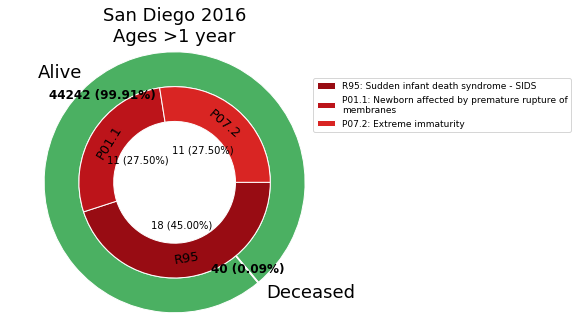
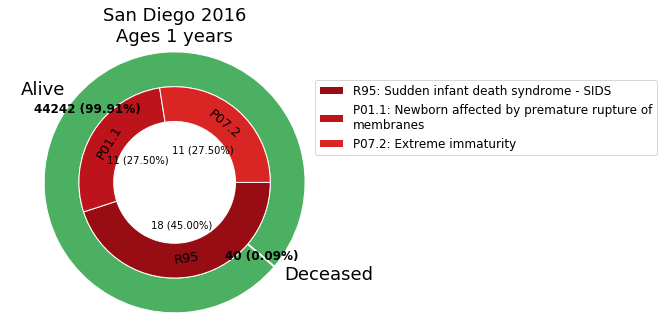
Renamed it again Increased font size for legends

Changed region(s): [[0.0311, 0.0, 0.9965, 0.9969], [0.9654, 0.4673, 0.9965, 0.4984]]

diff --git a/_posts/2019-10-24-Lambda-Build-1.md b/_posts/2019-10-24-Lambda-Build-1.md
@@ -2,15 +2,13 @@
 layout: post
 title: Build 1 - Death and Statistics
 subtitle: Lambda School - Data Science 9
-gh-repo: JoshuaPMallory/Unit_1_Build
+gh-repo: JoshuaPMallory/Death_and_Statistics
 gh-badge: [fork]
 image: /img/there-there-skeleton.png
 tags: [Data Science, Lambda School]
 ---
 
-This is my first project for Lambda School's monthly build week.
-
-I think the media presents a hostile view of life in the US; that shootings are happening more frequently than ever, that politicians and corporations are manipulating us, and that an excess diet of [eggs](https://www.pcrm.org/good-nutrition/nutrition-information/health-concerns-with-eggs 'Physicians Committee: Health Concerns with Eggs') is going to give us cancer. Or, wait... [I guess they're good for you now](https://health.clevelandclinic.org/i-have-cancer-what-should-i-eat-2/ 'Cleveland Clinic: I Have Cancer — What Should I Eat?'). It sounds like [other countries](https://www.washingtonpost.com/world/2019/06/04/china-warns-against-traveling-us-citing-shootings-robberies-theft/ 'Washington Post: China warns against traveling to the U.S., citing \‘shootings, robberies and theft\’') are taking note as well.
+From my corner of the world in California I think the media presents a hostile view of life; that shootings are happening more frequently than ever, that we're being manipulated by politicians and corporations, and that an excess diet of [eggs](https://www.pcrm.org/good-nutrition/nutrition-information/health-concerns-with-eggs 'Physicians Committee: Health Concerns with Eggs') is going to give us cancer. Or, wait... [I guess they're good for you now](https://health.clevelandclinic.org/i-have-cancer-what-should-i-eat-2/ 'Cleveland Clinic: I Have Cancer — What Should I Eat?'). It sounds like [other countries](https://www.washingtonpost.com/world/2019/06/04/china-warns-against-traveling-us-citing-shootings-robberies-theft/ 'Washington Post: China warns against traveling to the U.S., citing \‘shootings, robberies and theft\’') are taking note as well.
 
 I don't think death is nearly as common or likely as they believe so I'm going to be look at deaths in my corner of the world to give a general idea of the state of things in the past 17 years. By using data gathered from the CDC on California deaths I intend to give a clear view on death, it's most commonly talked about causes, and it's general probability against the surviving population. From what I've read in the past I believe the most likely causes of death are heart related illness and motor-vehicle collisions, and I'll compare that with what I believe most people would worry about; homicide and terrorism. (Well, I would do terrorism, but there's actually no listed deaths for terrorism in California, so that makes a great start!)
 
@@ -37,7 +35,7 @@ While not a surprise, this does show how a population influences the appearance 
 
 Overview of Infants >1 y/o in San Diego | Of those, the top 5 causes of Death in 2016
 :-------------------------:|:-------------------------:
- ![Graph_SD_2016_1](/img/Graph_SD_2016_1.png)|![Donut_SD_2016_1](/img/Donut_SD_2016_1.png)
+ ![Graph_SD_2016_1](/img/Graph_SD_1.png)|![Donut_SD_2016_1](/img/Donut_SD_2016_1.png)
 
 So, I'd say we have a good sign here. In the most recent year for the dataset we aren't even up to 5 causes of death! And of those, there's only 40 that died, all of which were medical issues with two of them happening prior to birth. If we look at the graph we can also see that it's not really changing much over time. I mean sure, it looks like it's bouncing around but the sums are pretty low compared to what we saw earlier, and they're not increasing at all! Seventeen years and the average is relatively stable. I'd take that as a sign that the majority of these deaths aren't being influenced by anything in particular.
 
@@ -46,7 +44,7 @@ I know dead babies isn't exactly a heartwarming story to talk about but just goi
 
 Overview of people 85+ y/o in San Diego | Of those, the top 5 causes of Death in 2016
 :-------------------------:|:-------------------------:
-![Graph_SD_2016_85+](/img/Graph_SD_2016_85+.png) | ![Donut_SD_2016_85+](/img/Donut_SD_2016_85+.png)
+![Graph_SD_2016_85+](/img/Graph_SD_85+.png) | ![Donut_SD_2016_85+](/img/Donut_SD_2016_85+.png)
 
 In this case we can see not only is there a top five, but that there's a whole 85 other causes of death not included in the list. If I put them all there, this chart would quickly become impossible to read, but on top of that we can see that there's a trend going upwards for people in this age group.
 
@@ -86,15 +84,11 @@ And here we see the problem with miscellaneous categories. It looks like there c
 ![img](/img/Graph_C_Suicide.png)
 
 
-Lastly we see that people's favorite flavor of death is strangulation, though maybe that's related in some way to autoerotic asphyxiation? Either way, it's followed soon after by handguns. I'm actually not sure why someone would choose strangulation personally, I mean, you have to sit around and wait for it to happen at that point, right? I mean I guess shooting yourself isn't much better; you'd leave a mess for your family to clean up!
-
-Not really a joke, actually. My grandma some years ago had to help a friend clean up her husband's body after he shot himself with a shotgun. The police or whoever may take the body, but they aren't going to pick up the chunks or do a deep clean on your carpet. Pretty grizzly to think about, eh? Probably better not doing that to people you ostensibly care about.
+Lastly we see that people's favorite flavor of death is strangulation, though maybe that's related in some way to autoerotic asphyxiation? Either way, it's followed soon after by handguns. I'm actually not sure why someone would choose strangulation personally, I mean, you have to sit around and wait for it to happen at that point, right? I mean I guess shooting yourself isn't much better; you'd leave a mess for your family to clean up.
 
 
 ## In Conclusion
 
-The reason I'm bringing these up like this isn't really to show off all the ways you can die or to be edgy, it's to show how unlikely it is. Even at the upper ranges of 10% with the elderly, there's a significant chunk of the population that actually stands an overwhelming chance of surviving each year. The highest rate of deaths from what we've viewed here come from heart disease, and that's very preventable. I'm certainly not in any position to be critiquing people's lifestyles, and for the most part I don't, but I think if people were really afraid of dying they'd be more fearful of the ways that claim most people. Even saying that though, I know in my case I'm the same way; staring down the barrel of a gun with your family behind you is a much more real threat than a hundred-thousand burgers hardening your arteries.
-
-What I'm getting at here is there's a chance for you to die, but there's more chances for you to live. I'm not going to tell you what you really need to do, but I will suggest that you take responsibility for yourself and your actions and accept that, regardless of the outcome. It's certainly helped me to relax and be alright with where I am in life, even as I'm trying to get somewhere I dream to be. So in the end, remember,
+The reason I'm bringing these up like this isn't really to show off all the ways people can die or to be edgy, it's to show how unlikely it is. Even at the upper ranges of 10% with the elderly, there's a significant part of the population that actually stands an overwhelming chance of surviving each year. The highest rate of deaths from what we've viewed here come from heart disease, and that's very preventable. I'm certainly not in any position to be critiquing people's lifestyles, and for the most part I don't, but I think if people were really afraid of dying they'd be more fearful of the ways that claim most people. Even saying that though, I know in my case I'm the same way; staring down the barrel of a gun with your family behind you is a much more real threat than a hundred-thousand burgers hardening your arteries. What I'm getting at here is there's a chance for people to die, but there's a greater chance for people to live. So in the end, remember,
 
 ![dontgiveup](/img/dont-give-up-skeleton.png 'don\'t give up, skeleton!'){: .center-block :}
